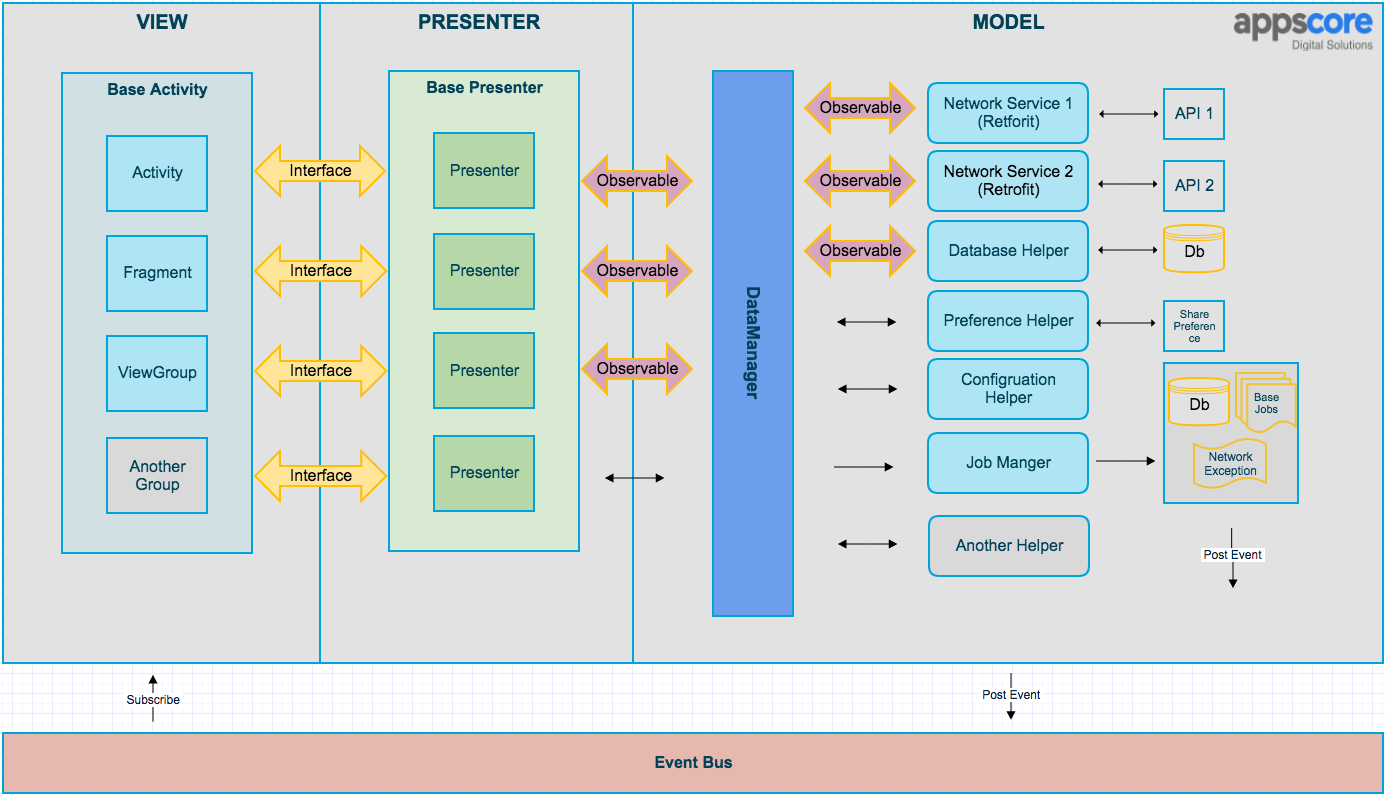
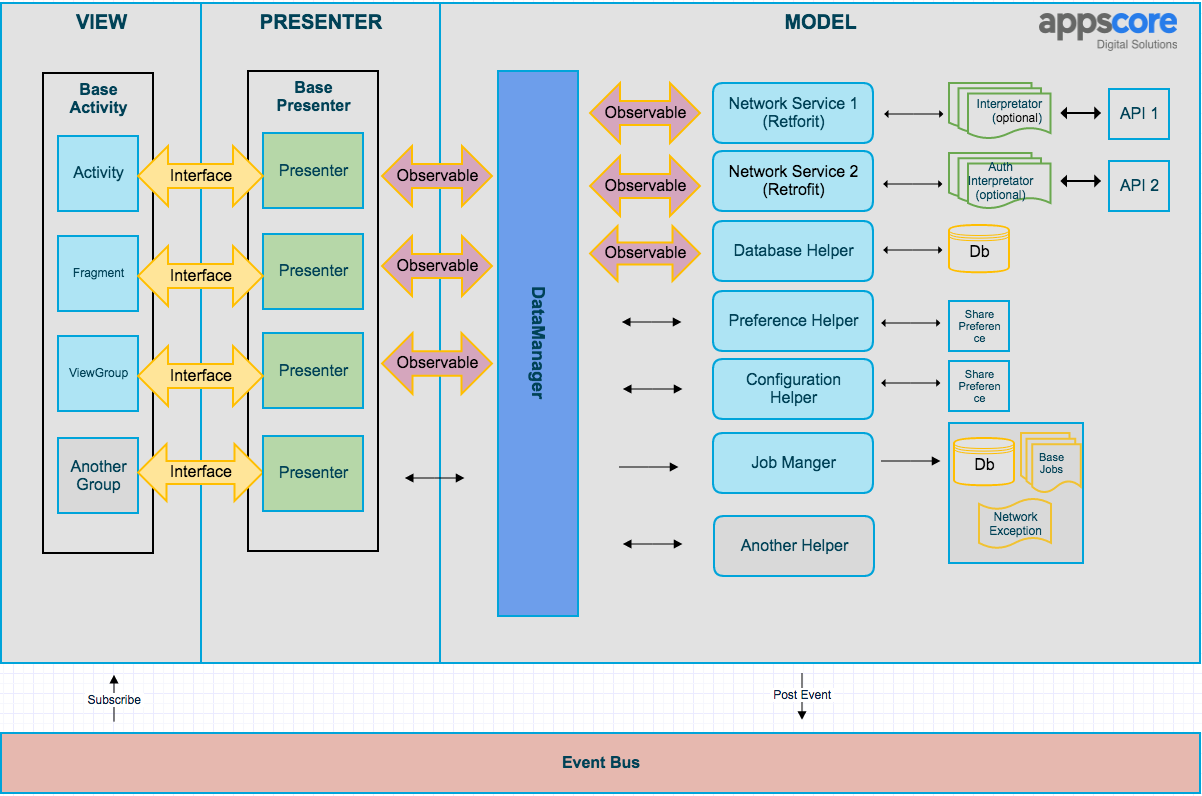
readme and images update

diff --git a/app/src/main/java/com/androidarchitecture/data/DataManager.java b/app/src/main/java/com/androidarchitecture/data/DataManager.java
@@ -1,5 +1,6 @@
 package com.androidarchitecture.data;
 
+import com.androidarchitecture.config.AppConfig;
 import com.androidarchitecture.data.job.fetch.FetchSamplesJob;
 import com.androidarchitecture.data.local.DatabaseHelper;
 import com.androidarchitecture.data.local.PreferencesHelper;
@@ -31,14 +32,17 @@ public class DataManager {
     private final JobManager mJobManagerHelper;
     private final ApiService mApiService;
     private final PreferencesHelper mPreferencesHelper;
+    private final AppConfig mConfigHelper;
 
     @Inject
     public DataManager(ApiService apiService, DatabaseHelper databaseHelper,
-                       JobManager jobManager, PreferencesHelper preferencesHelper) {
+                       JobManager jobManager, PreferencesHelper preferencesHelper,
+                       AppConfig configHelper) {
         mDatabaseHelper = databaseHelper;
         mJobManagerHelper = jobManager;
         mApiService = apiService;
         mPreferencesHelper = preferencesHelper;
+        mConfigHelper = configHelper;
     }
 
     /**
@@ -70,7 +74,15 @@ public class DataManager {
     /**
      * Fetch data api and save it eventually to Db.
      * <p/>
-     * It check internet connection and other issue. If error occured related to
+     * This function finish the job eventually even if there is no internet connection.
+     *
+     * It puts the job in to the job queue (It manages the job in own database). If there is error
+     * related network communication it flag the job as not sent and when network connection back
+     * it send/receive the packet
+     *
+     * Use eventbus to get the response if necessary.
+     *
+     *
      */
     public void fetchSamplesAsync(int page, int perPage) {
         mJobManagerHelper.addJobInBackground(new FetchSamplesJob(page, perPage));
@@ -78,9 +90,13 @@ public class DataManager {
 
 
     /**
-     * Update UI with old data from db.
-     * Then fetch new data from Api and update Db.
-     * Then Update UI with fresh data again.
+     * This function demonstrate the case such as
+     *
+     * - Get data from Db (if no data hits api)
+     * - Update the Ui with stored data.
+     * - Then hits the api to refresh the data in db
+     * - Then updates the Ui with uptodate data.
+     *
      */
     public Observable<List<Sample>> getSamplesFromDbThenUpdateViaApi(final int page, final int perPage) {
         return Observable.create(new Observable.OnSubscribe<List<Sample>>() {

diff --git a/README.md b/README.md
@@ -15,11 +15,6 @@ Libraries and tools included:
 - [JobManager](https://github.com/yigit/android-priority-jobqueue)
 - [PlayService](https://developers.google.com/android/guides/setup)
 
-## Architecture
-   This project follows Android architecture guidelines that are based on [MVP (Model View Presenter)](https://www.wikiwand.com/en/Model%E2%80%93view%E2%80%93presenter). 
-
-![](diagrams/architecture.png)
-
 ### How to implement a new screen following MVP
 
 Imagine you have to implement a sign in screen. 
@@ -35,6 +30,32 @@ Imagine you have to implement a sign in screen.
 
 Please see the `SampleActivity` implementation.
 
+# Architecture Guidelines
+
+The architecture of our Android apps is based on the [MVP](https://en.wikipedia.org/wiki/Model%E2%80%93view%E2%80%93presenter) (Model View Presenter) pattern.
+
+* __View (UI layer)__: this is where Activities, Fragments and other standard Android components live. It's responsible for displaying the data received from the presenters to the user. It also handles user interactions and inputs (click listeners, etc) and triggers the right action in the Presenter if needed.
+
+* __Presenter__: presenters subscribe to RxJava Observables provided by the `DataManager`. They are in charge of handling the subscription lifecycle, analysing/modifying the data returned by the `DataManager` and calling the appropriate methods in the View in order to display the data.
+
+* __Model (Data Layer)__: this is responsible for retrieving, saving, caching and massaging data. It can communicate with local databases and other data stores as well as with restful APIs or third party SDKs. It is divided in two parts: a group of helpers and a `DataManager`. The number of helpers vary between project and each of them has a very specific function, e.g. talking to an API or saving data in `SharedPreferences`. The `DataManager` combines and transforms the outputs from different helpers using Rx operators so it can: 1) provide meaningful data to the Presenter,  2) group actions that will always happen together. This layer also contains the actual model classes that define how the data structure is.
+
+![](diagrams/architecture.png)
+
+Looking at the diagram from right to left:
+
+* __Helpers (Model)__: A set of classes, each of them with a very specific responsibility. Their function can range from talking to APIs or a database to implementing some specific business logic. Every project will have different helpers but the most common ones are:
+	- __DatabaseHelper__: It handles inserting, updating and retrieving data from a local SQLite database. Its methods return Rx Observables that emit plain java objects (models)
+	- __PreferencesHelper__: It saves and gets data from `SharedPreferences`, it can return Observables or plain java objects directly.
+	- __Retrofit services__ : [Retrofit](http://square.github.io/retrofit) interfaces that talk to Restful APIs, each different API will have its own Retrofit service. They return Rx Observables.
+
+* __Data Manager (Model)__: It's a key part of the architecture. It keeps a reference to every helper class and uses them to satisfy the requests coming from the presenters. Its methods make extensive use of Rx operators to combine, transform or filter the output coming from the helpers in order to generate the desired output ready for the Presenters. It returns observables that emit data models.
+
+* __Presenters__: Subscribe to observables provided by the `DataManager` and process the data in order to call the right method in the View.
+
+* __Activities, Fragments, ViewGroups (View)__: Standard Android components that implement a set of methods that the Presenters can call. They also handle user interactions such as clicks and act accordingly by calling the appropriate method in the Presenter. These components also implement framework-related tasks such us managing the Android lifecycle, inflating views, etc.
+
+* __Event Bus__: It allows the View components to be notified of certain types of events that happen in the Model. Generally the  `DataManager` posts events which can then be subscribed to by Activities and Fragments. The event bus is __only used for very specific actions__ that are not related to only one screen and have a broadcasting nature, e.g. the user has signed out.
 
 ## Distribution
 
